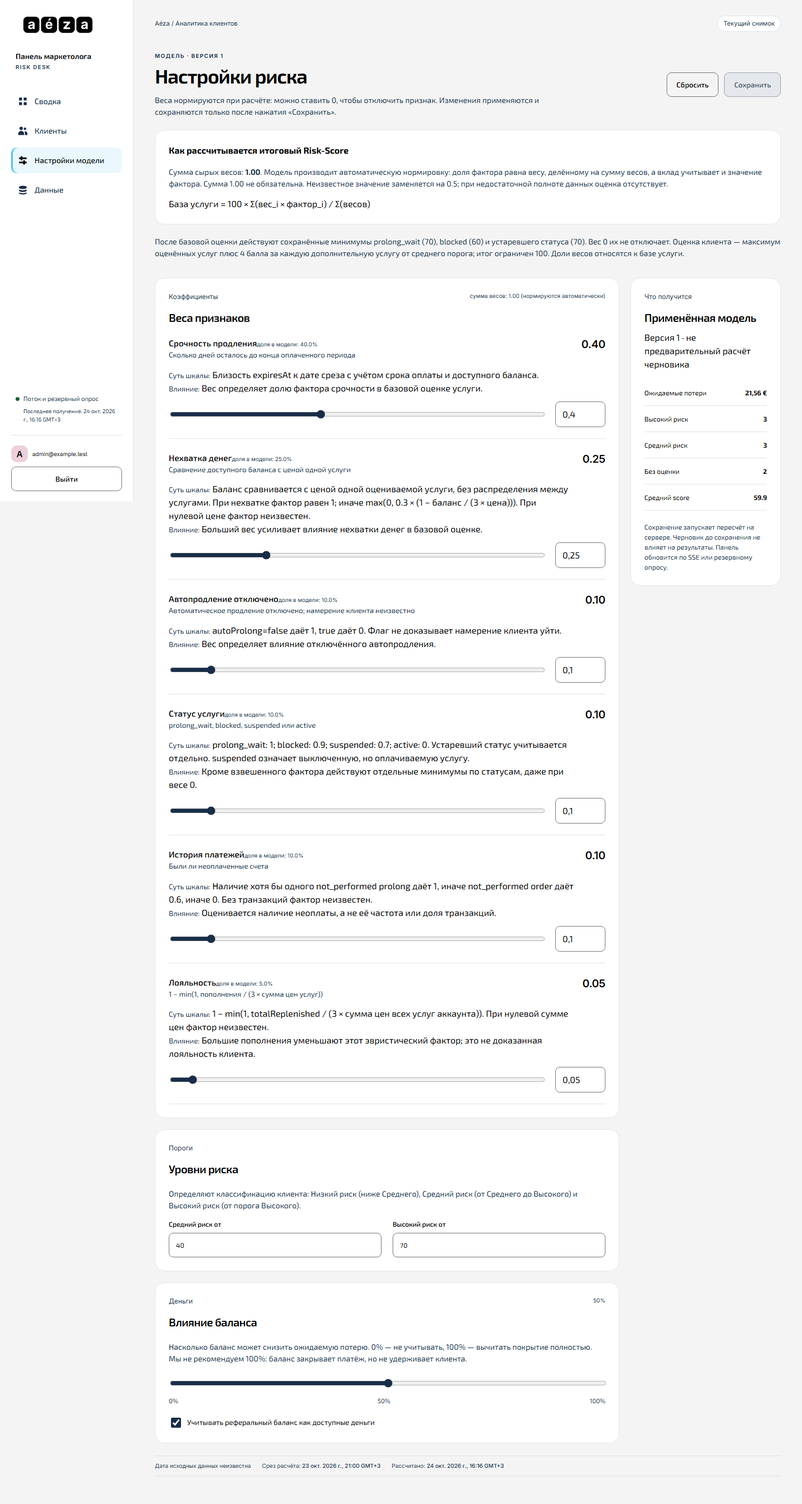
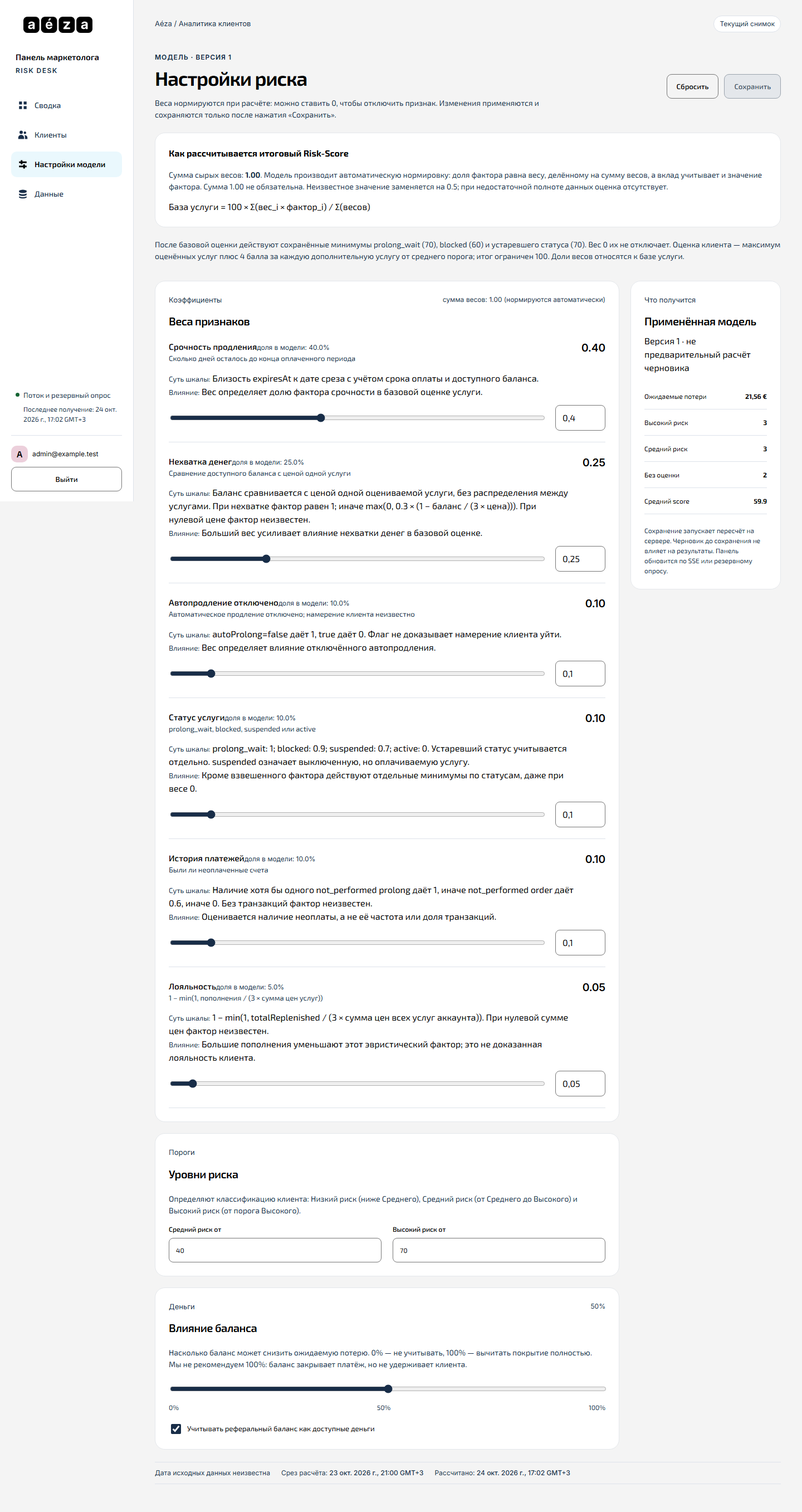
fix(ui): улучшена читаемость шрифтов, центровка Score, удалена лента и смягчен оранжевый цвет

diff --git a/frontend/src/styles.css b/frontend/src/styles.css
@@ -1,8 +1,8 @@
 @font-face{font-family:'Exo 2';src:url('/fonts/Exo2Variable.ttf') format('truetype');font-weight:100 900;font-display:swap}@font-face{font-family:Inter;src:url('/fonts/InterVariable.ttf') format('truetype');font-weight:100 900;font-display:swap}
-:root{--bg:#f4f4f4;--surface:#fff;--text:#000;--muted:#182d48;--accent:#4cc6f1;--accent-soft:#eaf8fd;--high:#b42318;--medium:#e97c35;--low:#166534;--unknown:#182d48;--line:#dde2ea;--control-border:#767676;--radius:18px;--ink:#000;--ink-soft:#182d48;--paper:#fff;--navy:#182d48;--font-sans:'Exo 2',system-ui,sans-serif;--font-display:'Exo 2',system-ui,sans-serif;color:var(--text);background:var(--bg);font-family:var(--font-sans);font-size:16px;line-height:1.5;font-synthesis:none}
-*{box-sizing:border-box}body{margin:0}button,input,select{font:inherit}button,a,input,select{touch-action:manipulation}button{cursor:pointer}button:disabled,input:disabled,fieldset:disabled{cursor:default}button:disabled{background:#e4e7eb;color:#455568;border-color:#9aa3ad}a{color:inherit;text-underline-offset:3px}button:focus-visible,a:focus-visible,input:focus-visible,select:focus-visible,[tabindex]:focus-visible{outline:2px solid #182d48;outline-offset:3px;box-shadow:0 0 0 2px #fff}h1,h2,h3,p{margin-top:0}h1{font-size:2.2rem;line-height:1.18;letter-spacing:-.035em;margin-bottom:12px;font-weight:650;overflow-wrap:anywhere}h2{font-size:1.25rem;line-height:1.35;letter-spacing:-.025em;margin-bottom:10px;font-weight:600}h3{font-size:1rem}small,.muted,.card__meta,.card__hint,.card__label,.page__subtitle{color:var(--muted)}small{font-size:.75rem}.muted{font-size:.875rem}.sr-only{position:absolute;width:1px;height:1px;padding:0;margin:-1px;overflow:hidden;clip:rect(0,0,0,0);white-space:nowrap;border:0}.eyebrow{font-family:Inter,system-ui,sans-serif;font-size:.625rem;letter-spacing:.13em;font-weight:650;color:#182d48;margin-bottom:12px}.app-shell{min-height:100vh}.sidebar{width:240px;position:fixed;inset:0 auto 0 0;background:#fff;border-right:1px solid #dde2ea;display:flex;flex-direction:column;z-index:10;padding:0 20px;overflow-y:auto}.brand-logo{display:flex;padding:30px;align-items:center;justify-content:center;flex-shrink:0;min-height:89px}.brand-logo img{display:block;flex-shrink:0;max-width:none}.sidebar>a{align-self:flex-start;margin-left:-8px;text-decoration:none}.product-label{margin:2px 8px 30px;font-size:.85rem;font-weight:600}.product-label span{display:block;letter-spacing:.15em;font-family:Inter,sans-serif;font-size:.6rem;color:#182d48;margin-top:3px}nav{display:grid;gap:7px}.nav__item{display:flex;gap:12px;align-items:center;min-height:46px;padding:11px 12px;border-radius:10px;text-decoration:none;font-size:.875rem;color:#182d48;font-weight:500}.nav__item:hover{background:#f4f4f4}.nav__item--active{background:#eaf8fd!important;color:#000;box-shadow:inset 3px 0 #4cc6f1}.connection{margin-top:auto;padding:30px 8px 20px;display:flex;align-items:flex-start;gap:7px;font-size:.7rem;color:#182d48}.connection small{display:block;font-size:.625rem;margin-top:6px}.connection-dot{width:7px;height:7px;margin-top:5px;background:#166534;border-radius:50%;flex-shrink:0}.connection-dot--off{background:#b42318}.sidebar__foot{padding:18px 0;border-top:1px solid var(--line);display:flex;gap:8px;align-items:center;flex-wrap:wrap}.avatar{background:#eccfdb;color:#000;width:30px;height:30px;border-radius:10px;display:grid;place-items:center;font-weight:600}.user-email{font-family:Inter,sans-serif;font-size:.625rem;overflow-wrap:anywhere;flex:1}.sidebar__foot button{width:100%}.main{margin-left:240px;padding:28px 38px 50px;max-width:1900px;min-width:0}.workspace-label{display:flex;align-items:center;justify-content:space-between;gap:12px;font-size:.7rem;color:#182d48;margin-bottom:36px;font-family:Inter,system-ui,sans-serif}.workspace-badge{background:#fff;border:1px solid #dde2ea;border-radius:30px;padding:5px 10px;white-space:nowrap}.page{display:grid;gap:22px;min-width:0}.page__header{display:flex;align-items:center;justify-content:space-between;gap:20px}.page__header .eyebrow{margin-bottom:8px}.page__subtitle{font-size:.875rem;margin:0;max-width:720px}.button{display:inline-flex;align-items:center;justify-content:center;gap:8px;min-height:44px;border:1px solid #767676;border-radius:9px;background:white;color:#000;padding:10px 17px;text-decoration:none;font-size:.8125rem;font-weight:550;line-height:1.25;text-align:center}.button:hover:not(:disabled){border-color:#182d48;box-shadow:0 2px 0 #182d48}.button--primary{background:#4cc6f1;border-color:#182d48;color:#000}.button--ghost{background:transparent}.button--wide{width:100%}.card{background:#fff;border:1px solid #e4e7eb;border-radius:18px;padding:24px;min-width:0}.card--hero{background:#4cc6f1;border-color:#4cc6f1}.card__heading{display:flex;align-items:flex-start;justify-content:space-between;gap:16px;margin-bottom:20px}.card__heading h2{margin:0}.card__heading .eyebrow{margin-bottom:7px}.card__meta{font-size:.625rem;font-family:Inter,sans-serif;white-space:nowrap}.card__label{font-size:.75rem;font-family:Inter,sans-serif;margin-bottom:15px}.card__value{display:block;font-size:clamp(1.3rem,2.2vw,2.1rem);font-weight:600;letter-spacing:-.04em;line-height:1.2;font-variant-numeric:tabular-nums}.card__value small{font-size:.875rem;font-weight:400;letter-spacing:0}.card__hint{font-family:Inter,system-ui,sans-serif;font-size:.6875rem;margin:12px 0 0;line-height:1.65}.summary-grid{display:grid;grid-template-columns:repeat(4,minmax(0,1fr));gap:14px}.summary-grid .card{padding:22px}.scope-note{font-family:Inter,system-ui,sans-serif;font-size:.6875rem;color:#182d48;margin:0}.dashboard-grid{display:grid;grid-template-columns:1fr 1.1fr;gap:18px}.calculation-context{display:flex;flex-wrap:wrap;gap:6px 20px;font-family:Inter,system-ui,sans-serif;font-size:.625rem;color:#182d48;border-top:1px solid #dde2ea;border-bottom:1px solid #dde2ea;padding:10px 0}.calculation-context strong{font-weight:500}.risk-stacked{display:flex;height:16px;overflow:hidden;border-radius:6px;border:1px solid #182d48;margin:32px 0 24px;min-width:0}.segment+.segment{border-left:1px solid #182d48}.segment--high{background:#b42318}.segment--medium{background:#e97c35}.segment--low{background:#166534}.segment--unknown{background:#182d48}.distribution-list{display:grid;gap:4px}.distribution-list a{display:grid;grid-template-columns:1fr 50px 40px;align-items:center;gap:10px;padding:9px 0;text-decoration:none;border-bottom:1px solid #f0f1f2;font-family:Inter,sans-serif;font-size:.75rem}.distribution-list a:hover{background:#f4f4f4}.distribution-list strong,.distribution-list a>span:last-child{text-align:right}.distribution-list a>span:last-child{font-size:.625rem;color:#182d48}.badge{display:inline-flex;align-items:center;gap:7px;width:max-content;border-radius:6px;font-family:Inter,sans-serif;font-size:.6875rem;font-weight:500;padding:5px 9px}.badge:before{content:'';width:5px;height:5px;border-radius:50%;background:currentColor}.badge--high{color:#b42318;background:#fee4e2}.badge--medium{color:#000;background:#e97c35}.badge--low{color:#166534;background:#dcfce7}.badge--unknown{color:#182d48;background:#f4f4f4}.ranking{display:grid;gap:7px;margin-top:17px}.ranking-row{display:grid;grid-template-columns:22px minmax(60px,1fr) auto;align-items:center;gap:10px;padding:10px 0;text-decoration:none;min-height:46px}.ranking-row:hover{background:#f4f4f4}.ranking-number{font:500 .625rem Inter,sans-serif;color:#182d48}.ranking-email{display:block;font:500 .6875rem Inter,sans-serif;overflow:hidden;text-overflow:ellipsis;white-space:nowrap;margin-bottom:9px}.ranking-row strong{font-size:.8125rem;font-weight:600;font-variant-numeric:tabular-nums}.ranking-track{display:block;background:#f4f4f4;border-radius:3px;height:5px;overflow:hidden}.ranking-track>span{display:block;height:5px;background:#182d48}.notice{border:1px solid #b0d5e4;background:#eaf8fd;border-radius:12px;padding:17px 20px;font-size:.8125rem;color:#182d48;line-height:1.6}.notice strong{display:block;color:#000;margin-bottom:3px}.filters{display:flex;flex-wrap:wrap;gap:16px;align-items:flex-end}.field{display:grid;gap:7px;font-size:.75rem;min-width:0}.field:first-child{flex:1}.field>span{font-weight:550}.field input,.input,.field select,select{border:1px solid #767676;border-radius:8px;background:#fff;padding:10px 12px;min-height:44px;color:#000;min-width:0}.filters .field:first-child{min-width:180px}.active-filters{flex-basis:100%;display:flex;flex-wrap:wrap;gap:7px}.active-filters:empty{display:none}.chip{border:1px solid #182d48;border-radius:6px;background:#eaf8fd;color:#000;padding:6px 10px;font-size:.75rem;overflow-wrap:anywhere;max-width:100%}.results-meta{display:flex;justify-content:space-between;flex-wrap:wrap;gap:8px;align-items:center;font-size:.8rem}.results-meta>span{font-family:Inter,sans-serif;font-size:.625rem;color:#182d48}.card--table{padding:0;overflow:hidden}.table-wrap{overflow:auto;max-width:100%;border-radius:18px 18px 0 0}.table{width:100%;border-collapse:collapse;white-space:nowrap;font-family:Inter,system-ui,sans-serif;font-size:.75rem}.table caption{white-space:normal}.table th{background:#f9fafb;color:#182d48;font-size:.625rem;font-weight:550;padding:16px;text-align:left;border-bottom:1px solid #dde2ea}.table th button{border:0;background:transparent;color:inherit;font:inherit;padding:8px 0;text-align:left}.table td{padding:18px 16px;border-bottom:1px solid #eef0f3;vertical-align:middle}.table tbody tr:hover{background:#f1faff}.table a{font-weight:500;display:inline-block;max-width:260px;overflow:hidden;text-overflow:ellipsis;vertical-align:middle}.table .num{text-align:right;font-variant-numeric:tabular-nums}.col-id{color:#182d48}.score-value{display:inline-block;min-width:30px;text-align:center;font-weight:600;background:#f4f4f4;border-radius:6px;padding:4px 6px}.score-value--high{background:#fee4e2;color:#b42318}.score-value--medium{background:#e97c35;color:#000}.pagination{padding:18px 22px;display:flex;align-items:center;justify-content:space-between;flex-wrap:wrap;gap:12px;font-size:.75rem}.pagination>div{display:flex;gap:8px}.pagination .button{min-height:36px;padding:8px 12px}.export-note{font-family:Inter,sans-serif;color:#182d48;font-size:.625rem;max-width:900px;margin:0}.error-box{border:1px solid #b42318;background:#fff0ef;color:#791a13;border-radius:10px;padding:15px 18px;display:flex;align-items:center;justify-content:space-between;gap:10px;overflow-wrap:anywhere;font-size:.8125rem}.spinner{display:flex;gap:9px;align-items:center;font-size:.8125rem;color:#182d48}.spinner__dot{display:block;width:9px;height:9px;border-radius:50%;background:#182d48;animation:pulse 1s infinite alternate}@keyframes pulse{to{opacity:.3}}.empty-state{text-align:center;padding:45px 20px;color:#182d48}.empty-state__mark{font-size:2rem}.empty-state p{font-size:.875rem}.boot{min-height:100vh;display:grid;align-content:center;justify-content:center;gap:24px}.back-link{justify-self:start;border:0;background:transparent;padding:8px 0;font-size:.8125rem;color:#182d48;text-decoration:underline}.customer-header{display:flex;justify-content:space-between;align-items:flex-start;gap:24px}.customer-header h1{font-size:1.8rem;overflow-wrap:anywhere}.customer-header__badges{display:flex;gap:8px;flex-wrap:wrap}.meta-pill{background:white;border:1px solid #dde2ea;border-radius:6px;padding:5px 10px;font-size:.6875rem;font-family:Inter,sans-serif}.confidence{background:#fff;border:1px solid #dde2ea;border-radius:12px;padding:15px 20px;white-space:nowrap}.confidence span{display:block;font-size:.6875rem;color:#182d48}.confidence strong{font-size:1.6rem}.customer-hero{background:#fff;border:1px solid #dde2ea;border-radius:18px;padding:28px;display:grid;grid-template-columns:140px 1fr 200px;gap:25px;align-items:center}.score-gauge{position:relative;width:140px;height:140px}.score-gauge svg{width:140px;height:140px;transform:rotate(-90deg)}.score-gauge circle{fill:none;stroke-width:9}.score-gauge__track{stroke:#eef1f4}.score-gauge__fill{stroke:#182d48}.score-gauge__fill--high{stroke:#b42318}.score-gauge__fill--medium{stroke:#e97c35}.score-gauge__fill--low{stroke:#166534}.score-gauge__label{position:absolute;inset:0;display:grid;align-content:center;text-align:center}.score-gauge__label strong{font-size:2.5rem;line-height:1.1}.score-gauge__label span{font-size:.6875rem;color:#182d48}.money-column{display:grid;gap:12px;border-left:1px solid #dde2ea;padding-left:25px}.money-card span{display:block;font-size:.6875rem;color:#182d48}.money-card strong{font-size:1.2rem;font-weight:550}.two-columns{display:grid;grid-template-columns:1fr 1fr;gap:18px}.facts{display:grid;gap:12px;margin:0;font-size:.8125rem}.facts>div{display:flex;justify-content:space-between;gap:15px;border-bottom:1px solid #eef0f3;padding-bottom:12px}.facts dt{color:#182d48}.facts dd{margin:0;text-align:right;font-weight:550}.driver{margin:15px 0}.driver__row{display:flex;gap:10px;justify-content:space-between;font-size:.8125rem}.driver__track{height:5px;background:#f4f4f4;margin-top:7px}.driver__fill{display:block;height:100%;background:#182d48}.drivers~section p{font-size:.75rem;color:#182d48}.drivers~section{margin-top:24px}.drivers~section h3{font-size:.875rem}.service-name,.expiry-cell{display:grid;gap:4px}.service-name span,.expiry-cell small{font-size:.625rem;color:#182d48}.status{font-size:.6875rem;padding:4px 6px;background:#f4f4f4;border-radius:5px}.stale-flag{display:block;font-size:.625rem;color:#b42318}.score-chip{background:#eaf8fd;padding:4px 7px;border-radius:6px}.settings-fields{border:0;padding:0;margin:0;min-width:0;display:grid;gap:20px}.settings-actions{display:flex;gap:10px;flex-wrap:wrap}.settings-layout{display:grid;grid-template-columns:minmax(0,1fr) 270px;gap:20px}.settings-main{display:grid;gap:20px}.settings-aside{min-width:0}.card--sticky{position:sticky;top:24px}.weights{display:grid;gap:22px}.weight-row{border-bottom:1px solid #dde2ea;padding-bottom:20px}.weight-row__head{display:flex;justify-content:space-between;gap:20px}.weight-row__head p,.weight-row__head em{font-size:.8125rem;color:#182d48}.weight-row__head strong{font-weight:550;font-size:.95rem}.weight-row__head span{font-family:Inter,sans-serif;font-size:.625rem;color:#182d48}.weight-row__head>div>div+div{font-size:.75rem;color:#182d48;background:#f4f4f4;padding:12px;border-radius:8px}.weight-row__value{font-weight:600;font-size:1.2rem!important;color:#000!important}.weight-row__controls{display:grid;grid-template-columns:1fr 90px;gap:20px;align-items:center;margin-top:12px}input[type=range]{accent-color:#182d48;width:100%;min-height:36px}.input--number{width:100%;min-width:60px}.thresholds{display:flex;gap:20px;flex-wrap:wrap}.thresholds .field{flex:1;min-width:140px}.range-labels{display:flex;justify-content:space-between;color:#182d48;font-size:.7rem}.checkbox{display:flex;align-items:center;gap:8px;margin-top:18px;font-size:.8125rem}.checkbox input{width:18px;height:18px;accent-color:#182d48}.mini-stat{display:flex;gap:15px;justify-content:space-between;font-size:.75rem;padding:14px 0;border-bottom:1px solid #dde2ea}.settings-aside__note{font-size:.75rem;color:#182d48;margin:20px 0 0}.data-grid{display:grid;grid-template-columns:1fr 1fr;gap:20px}.count-grid{display:grid;grid-template-columns:repeat(3,minmax(0,1fr));gap:12px;margin-bottom:30px}.count-grid strong{display:block;font-size:1.9rem;font-weight:600}.count-grid span{font-family:Inter,sans-serif;font-size:.625rem;color:#182d48}.dropzone{display:flex;align-items:center;flex-direction:column;gap:12px;text-align:center;padding:35px 20px;border:1px dashed #767676;border-radius:12px;background:#eaf8fd}.dropzone input{max-width:100%;font-size:.75rem}.dropzone>span:last-child{font-size:.75rem;color:#182d48}.dropzone__icon{font-size:2rem}.data-grid .muted{margin-top:20px}dialog{border:1px solid #182d48;border-radius:18px;padding:28px;width:min(520px,calc(100vw - 32px));max-height:calc(100vh - 32px);overflow:auto;background:#fff;color:#000;box-shadow:0 20px 80px #182d4840}dialog::backdrop{background:#182d4877}dialog h2{font-size:1.4rem}dialog p{font-size:.875rem}dialog .button{margin:5px 8px 5px 0}.dialog-actions{display:flex;gap:10px;flex-wrap:wrap}.mobile-header{display:none}.login{min-height:100vh;display:grid;grid-template-columns:1fr 1fr}.login__aside{background:#4cc6f1;min-height:100vh;padding:40px 55px;position:relative;display:flex;flex-direction:column;overflow:hidden}.login__aside>.brand-logo{align-self:flex-start;margin-left:-30px}.login__pitch{margin:auto 0;max-width:510px;position:relative;z-index:1;padding:50px 0}.login__pitch h1{font-size:clamp(2.5rem,4vw,4rem);font-weight:650}.login__pitch p:last-child{color:#182d48;font-size:.9375rem;line-height:1.8}.login__footnote{font-family:Inter,sans-serif;font-size:.625rem;color:#182d48}.login__panel{display:grid;place-items:center;padding:40px}.login__card{background:#fff;padding:40px;border-radius:22px;border:1px solid #dde2ea;width:min(440px,100%);display:grid;gap:20px}.login__card h2{font-size:1.8rem;margin:0}.login__card .eyebrow,.login__card p{margin:0}.login__hint{font-size:.625rem;color:#182d48}.login__hint code{font-size:.625rem;overflow-wrap:anywhere}.form-error{font-size:.8125rem;color:#b42318}.brand-pattern{position:absolute;bottom:30px;right:-100px;transform:rotate(-10deg);opacity:.3;width:400px;height:200px;pointer-events:none}.brand-pattern i{display:block;height:2px;background:#182d48;margin:24px 0}.brand-pattern b{display:block;height:80px;border:3px solid #182d48;border-radius:0 0 80px 0;border-top:0;border-left:0;width:80%}
+:root{--bg:#f4f4f4;--surface:#fff;--text:#000;--muted:#182d48;--accent:#4cc6f1;--accent-soft:#eaf8fd;--high:#b42318;--medium:#ba6829;--low:#166534;--unknown:#182d48;--line:#dde2ea;--control-border:#767676;--radius:18px;--ink:#000;--ink-soft:#182d48;--paper:#fff;--navy:#182d48;--font-sans:'Exo 2',system-ui,sans-serif;--font-display:'Exo 2',system-ui,sans-serif;color:var(--text);background:var(--bg);font-family:var(--font-sans);font-size:16px;line-height:1.5;font-synthesis:none}
+*{box-sizing:border-box}body{margin:0}button,input,select{font:inherit}button,a,input,select{touch-action:manipulation}button{cursor:pointer}button:disabled,input:disabled,fieldset:disabled{cursor:default}button:disabled{background:#e4e7eb;color:#455568;border-color:#9aa3ad}a{color:inherit;text-underline-offset:3px}button:focus-visible,a:focus-visible,input:focus-visible,select:focus-visible,[tabindex]:focus-visible{outline:2px solid #182d48;outline-offset:3px;box-shadow:0 0 0 2px #fff}h1,h2,h3,p{margin-top:0}h1{font-size:2.2rem;line-height:1.18;letter-spacing:-.035em;margin-bottom:12px;font-weight:650;overflow-wrap:anywhere}h2{font-size:1.25rem;line-height:1.35;letter-spacing:-.025em;margin-bottom:10px;font-weight:600}h3{font-size:1rem}small,.muted,.card__meta,.card__hint,.card__label,.page__subtitle{color:var(--muted)}small{font-size:.8125rem}.muted{font-size:.875rem}.sr-only{position:absolute;width:1px;height:1px;padding:0;margin:-1px;overflow:hidden;clip:rect(0,0,0,0);white-space:nowrap;border:0}.eyebrow{font-family:Inter,system-ui,sans-serif;font-size:.75rem;letter-spacing:.08em;font-weight:650;color:#182d48;margin-bottom:12px}.app-shell{min-height:100vh}.sidebar{width:240px;position:fixed;inset:0 auto 0 0;background:#fff;border-right:1px solid #dde2ea;display:flex;flex-direction:column;z-index:10;padding:0 20px;overflow-y:auto}.brand-logo{display:flex;padding:30px;align-items:center;justify-content:center;flex-shrink:0;min-height:89px}.brand-logo img{display:block;flex-shrink:0;max-width:none}.sidebar>a{align-self:flex-start;margin-left:-8px;text-decoration:none}.product-label{margin:2px 8px 30px;font-size:.9375rem;font-weight:600}.product-label span{display:block;letter-spacing:.12em;font-family:Inter,sans-serif;font-size:.75rem;color:#182d48;margin-top:4px}nav{display:grid;gap:7px}.nav__item{display:flex;gap:12px;align-items:center;min-height:46px;padding:11px 12px;border-radius:10px;text-decoration:none;font-size:.875rem;color:#182d48;font-weight:500}.nav__item:hover{background:#f4f4f4}.nav__item--active{background:#eaf8fd!important;color:#000;font-weight:600}.connection{margin-top:auto;padding:30px 8px 20px;display:flex;align-items:flex-start;gap:7px;font-size:.8125rem;color:#182d48}.connection small{display:block;font-size:.75rem;margin-top:6px}.connection-dot{width:7px;height:7px;margin-top:5px;background:#166534;border-radius:50%;flex-shrink:0}.connection-dot--off{background:#b42318}.sidebar__foot{padding:18px 0;border-top:1px solid var(--line);display:flex;gap:8px;align-items:center;flex-wrap:wrap}.avatar{background:#eccfdb;color:#000;width:30px;height:30px;border-radius:10px;display:grid;place-items:center;font-weight:600}.user-email{font-family:Inter,sans-serif;font-size:.75rem;overflow-wrap:anywhere;flex:1}.sidebar__foot button{width:100%}.main{margin-left:240px;padding:28px 38px 50px;max-width:1900px;min-width:0}.workspace-label{display:flex;align-items:center;justify-content:space-between;gap:12px;font-size:.8125rem;color:#182d48;margin-bottom:36px;font-family:Inter,system-ui,sans-serif}.workspace-badge{background:#fff;border:1px solid #dde2ea;border-radius:30px;padding:5px 10px;white-space:nowrap;font-size:.75rem}.page{display:grid;gap:22px;min-width:0}.page__header{display:flex;align-items:center;justify-content:space-between;gap:20px}.page__header .eyebrow{margin-bottom:8px}.page__subtitle{font-size:.875rem;margin:0;max-width:720px}.button{display:inline-flex;align-items:center;justify-content:center;gap:8px;min-height:44px;border:1px solid #767676;border-radius:9px;background:white;color:#000;padding:10px 17px;text-decoration:none;font-size:.8125rem;font-weight:550;line-height:1.25;text-align:center}.button:hover:not(:disabled){border-color:#182d48;box-shadow:0 2px 0 #182d48}.button--primary{background:#4cc6f1;border-color:#182d48;color:#000}.button--ghost{background:transparent}.button--wide{width:100%}.card{background:#fff;border:1px solid #e4e7eb;border-radius:18px;padding:24px;min-width:0}.card--hero{background:#4cc6f1;border-color:#4cc6f1}.card__heading{display:flex;align-items:flex-start;justify-content:space-between;gap:16px;margin-bottom:20px}.card__heading h2{margin:0}.card__heading .eyebrow{margin-bottom:7px}.card__meta{font-size:.75rem;font-family:Inter,sans-serif;white-space:nowrap}.card__label{font-size:.8125rem;font-family:Inter,sans-serif;margin-bottom:15px}.card__value{display:block;font-size:clamp(1.3rem,2.2vw,2.1rem);font-weight:600;letter-spacing:-.04em;line-height:1.2;font-variant-numeric:tabular-nums}.card__value small{font-size:.875rem;font-weight:400;letter-spacing:0}.card__hint{font-family:Inter,system-ui,sans-serif;font-size:.75rem;margin:12px 0 0;line-height:1.65}.summary-grid{display:grid;grid-template-columns:repeat(4,minmax(0,1fr));gap:14px}.summary-grid .card{padding:22px}.scope-note{font-family:Inter,system-ui,sans-serif;font-size:.75rem;color:#182d48;margin:0}.dashboard-grid{display:grid;grid-template-columns:1fr 1.1fr;gap:18px}.calculation-context{display:flex;flex-wrap:wrap;gap:6px 20px;font-family:Inter,system-ui,sans-serif;font-size:.75rem;color:#182d48;border-top:1px solid #dde2ea;border-bottom:1px solid #dde2ea;padding:10px 0}.calculation-context strong{font-weight:500}.risk-stacked{display:flex;height:16px;overflow:hidden;border-radius:6px;border:1px solid #182d48;margin:32px 0 24px;min-width:0}.segment+.segment{border-left:1px solid #182d48}.segment--high{background:#b42318}.segment--medium{background:#ba6829}.segment--low{background:#166534}.segment--unknown{background:#182d48}.distribution-list{display:grid;gap:4px}.distribution-list a{display:grid;grid-template-columns:1fr 50px 40px;align-items:center;gap:10px;padding:9px 0;text-decoration:none;border-bottom:1px solid #f0f1f2;font-family:Inter,sans-serif;font-size:.8125rem}.distribution-list a:hover{background:#f4f4f4}.distribution-list strong,.distribution-list a>span:last-child{text-align:right}.distribution-list a>span:last-child{font-size:.75rem;color:#182d48}.badge{display:inline-flex;align-items:center;gap:7px;width:max-content;border-radius:6px;font-family:Inter,sans-serif;font-size:.75rem;font-weight:500;padding:5px 9px}.badge:before{content:'';width:5px;height:5px;border-radius:50%;background:currentColor}.badge--high{color:#b42318;background:#fee4e2}.badge--medium{color:#92400e;background:#fef3c7}.badge--low{color:#166534;background:#dcfce7}.badge--unknown{color:#182d48;background:#f4f4f4}.ranking{display:grid;gap:7px;margin-top:17px}.ranking-row{display:grid;grid-template-columns:22px minmax(60px,1fr) auto;align-items:center;gap:10px;padding:10px 0;text-decoration:none;min-height:46px}.ranking-row:hover{background:#f4f4f4}.ranking-number{font:500 .75rem Inter,sans-serif;color:#182d48}.ranking-email{display:block;font:500 .8125rem Inter,sans-serif;overflow:hidden;text-overflow:ellipsis;white-space:nowrap;margin-bottom:9px}.ranking-row strong{font-size:.8125rem;font-weight:600;font-variant-numeric:tabular-nums}.ranking-track{display:block;background:#f4f4f4;border-radius:3px;height:5px;overflow:hidden}.ranking-track>span{display:block;height:5px;background:#182d48}.notice{border:1px solid #b0d5e4;background:#eaf8fd;border-radius:12px;padding:17px 20px;font-size:.8125rem;color:#182d48;line-height:1.6}.notice strong{display:block;color:#000;margin-bottom:3px}.filters{display:flex;flex-wrap:wrap;gap:16px;align-items:flex-end}.field{display:grid;gap:7px;font-size:.75rem;min-width:0}.field:first-child{flex:1}.field>span{font-weight:550}.field input,.input,.field select,select{border:1px solid #767676;border-radius:8px;background:#fff;padding:10px 12px;min-height:44px;color:#000;min-width:0}.filters .field:first-child{min-width:180px}.active-filters{flex-basis:100%;display:flex;flex-wrap:wrap;gap:7px}.active-filters:empty{display:none}.chip{border:1px solid #182d48;border-radius:6px;background:#eaf8fd;color:#000;padding:6px 10px;font-size:.75rem;overflow-wrap:anywhere;max-width:100%}.results-meta{display:flex;justify-content:space-between;flex-wrap:wrap;gap:8px;align-items:center;font-size:.8125rem}.results-meta>span{font-family:Inter,sans-serif;font-size:.75rem;color:#182d48}.card--table{padding:0;overflow:hidden}.table-wrap{overflow:auto;max-width:100%;border-radius:18px 18px 0 0}.table{width:100%;border-collapse:collapse;white-space:nowrap;font-family:Inter,system-ui,sans-serif;font-size:.8125rem}.table caption{white-space:normal}.table th{background:#f9fafb;color:#182d48;font-size:.75rem;font-weight:550;padding:16px;text-align:left;border-bottom:1px solid #dde2ea}.table th button{border:0;background:transparent;color:inherit;font:inherit;padding:8px 0;text-align:left}.table td{padding:18px 16px;border-bottom:1px solid #eef0f3;vertical-align:middle}.table tbody tr:hover{background:#f1faff}.table a{font-weight:500;display:inline-block;max-width:260px;overflow:hidden;text-overflow:ellipsis;vertical-align:middle}.table .num{text-align:right;font-variant-numeric:tabular-nums}.col-id{color:#182d48}.score-value{display:inline-block;min-width:30px;text-align:center;font-weight:600;background:#f4f4f4;border-radius:6px;padding:4px 6px}.score-value--high{background:#fee4e2;color:#b42318}.score-value--medium{background:#fef3c7;color:#92400e}.pagination{padding:18px 22px;display:flex;align-items:center;justify-content:space-between;flex-wrap:wrap;gap:12px;font-size:.75rem}.pagination>div{display:flex;gap:8px}.pagination .button{min-height:36px;padding:8px 12px}.export-note{font-family:Inter,sans-serif;color:#182d48;font-size:.75rem;max-width:900px;margin:0}.error-box{border:1px solid #b42318;background:#fff0ef;color:#791a13;border-radius:10px;padding:15px 18px;display:flex;align-items:center;justify-content:space-between;gap:10px;overflow-wrap:anywhere;font-size:.8125rem}.spinner{display:flex;gap:9px;align-items:center;font-size:.8125rem;color:#182d48}.spinner__dot{display:block;width:9px;height:9px;border-radius:50%;background:#182d48;animation:pulse 1s infinite alternate}@keyframes pulse{to{opacity:.3}}.empty-state{text-align:center;padding:45px 20px;color:#182d48}.empty-state__mark{font-size:2rem}.empty-state p{font-size:.875rem}.boot{min-height:100vh;display:grid;align-content:center;justify-content:center;gap:24px}.back-link{justify-self:start;border:0;background:transparent;padding:8px 0;font-size:.8125rem;color:#182d48;text-decoration:underline}.customer-header{display:flex;justify-content:space-between;align-items:flex-start;gap:24px}.customer-header h1{font-size:1.8rem;overflow-wrap:anywhere}.customer-header__badges{display:flex;gap:8px;flex-wrap:wrap}.meta-pill{background:white;border:1px solid #dde2ea;border-radius:6px;padding:5px 10px;font-size:.75rem;font-family:Inter,sans-serif}.confidence{background:#fff;border:1px solid #dde2ea;border-radius:12px;padding:15px 20px;white-space:nowrap}.confidence span{display:block;font-size:.75rem;color:#182d48}.confidence strong{font-size:1.6rem}.customer-hero{background:#fff;border:1px solid #dde2ea;border-radius:18px;padding:28px;display:grid;grid-template-columns:140px 1fr 200px;gap:25px;align-items:center}.score-gauge{position:relative;width:140px;height:140px}.score-gauge svg{width:140px;height:140px;transform:rotate(-90deg)}.score-gauge circle{fill:none;stroke-width:9}.score-gauge__track{stroke:#eef1f4}.score-gauge__fill{stroke:#182d48}.score-gauge__fill--high{stroke:#b42318}.score-gauge__fill--medium{stroke:#ba6829}.score-gauge__fill--low{stroke:#166534}.score-gauge__label{position:absolute;inset:0;display:grid;align-content:center;text-align:center}.score-gauge__label strong{font-size:2.5rem;line-height:1.1}.score-gauge__label span{font-size:.75rem;color:#182d48}.money-column{display:grid;gap:12px;border-left:1px solid #dde2ea;padding-left:25px}.money-card span{display:block;font-size:.75rem;color:#182d48}.money-card strong{font-size:1.2rem;font-weight:550}.two-columns{display:grid;grid-template-columns:1fr 1fr;gap:18px}.facts{display:grid;gap:12px;margin:0;font-size:.8125rem}.facts>div{display:flex;justify-content:space-between;gap:15px;border-bottom:1px solid #eef0f3;padding-bottom:12px}.facts dt{color:#182d48}.facts dd{margin:0;text-align:right;font-weight:550}.driver{margin:15px 0}.driver__row{display:flex;gap:10px;justify-content:space-between;font-size:.8125rem}.driver__track{height:5px;background:#f4f4f4;margin-top:7px}.driver__fill{display:block;height:100%;background:#182d48}.drivers~section p{font-size:.75rem;color:#182d48}.drivers~section{margin-top:24px}.drivers~section h3{font-size:.875rem}.service-name,.expiry-cell{display:grid;gap:4px}.service-name span,.expiry-cell small{font-size:.75rem;color:#182d48}.status{font-size:.75rem;padding:4px 6px;background:#f4f4f4;border-radius:5px}.stale-flag{display:block;font-size:.75rem;color:#b42318}.table th.col-center,.table td.col-center{text-align:center}.table th.col-center button{text-align:center;margin:0 auto;display:inline-flex;align-items:center;justify-content:center}.col-center .score-value,.col-center .score-chip{margin:0 auto;display:inline-flex;justify-content:center;align-items:center}.score-chip{background:#eaf8fd;padding:4px 7px;border-radius:6px;font-weight:600}.score-chip--high{background:#fee4e2;color:#b42318}.score-chip--medium{background:#fef3c7;color:#92400e}.score-chip--low{background:#dcfce7;color:#166534}.score-chip--unknown{background:#f4f4f4;color:#182d48}.driver__fill--medium{background:#ba6829}.settings-fields{border:0;padding:0;margin:0;min-width:0;display:grid;gap:20px}.settings-actions{display:flex;gap:10px;flex-wrap:wrap}.settings-layout{display:grid;grid-template-columns:minmax(0,1fr) 270px;gap:20px}.settings-main{display:grid;gap:20px}.settings-aside{min-width:0}.card--sticky{position:sticky;top:24px}.weights{display:grid;gap:22px}.weight-row{border-bottom:1px solid #dde2ea;padding-bottom:20px}.weight-row__head{display:flex;justify-content:space-between;gap:20px}.weight-row__head p,.weight-row__head em{font-size:.8125rem;color:#182d48}.weight-row__head strong{font-weight:550;font-size:.95rem}.weight-row__head span{font-family:Inter,sans-serif;font-size:.75rem;color:#182d48}.weight-row__head>div>div+div{font-size:.75rem;color:#182d48;background:#f4f4f4;padding:12px;border-radius:8px}.weight-row__value{font-weight:600;font-size:1.2rem!important;color:#000!important}.weight-row__controls{display:grid;grid-template-columns:1fr 90px;gap:20px;align-items:center;margin-top:12px}input[type=range]{accent-color:#182d48;width:100%;min-height:36px}.input--number{width:100%;min-width:60px}.thresholds{display:flex;gap:20px;flex-wrap:wrap}.thresholds .field{flex:1;min-width:140px}.range-labels{display:flex;justify-content:space-between;color:#182d48;font-size:.75rem}.checkbox{display:flex;align-items:center;gap:8px;margin-top:18px;font-size:.8125rem}.checkbox input{width:18px;height:18px;accent-color:#182d48}.mini-stat{display:flex;gap:15px;justify-content:space-between;font-size:.75rem;padding:14px 0;border-bottom:1px solid #dde2ea}.settings-aside__note{font-size:.75rem;color:#182d48;margin:20px 0 0}.data-grid{display:grid;grid-template-columns:1fr 1fr;gap:20px}.count-grid{display:grid;grid-template-columns:repeat(3,minmax(0,1fr));gap:12px;margin-bottom:30px}.count-grid strong{display:block;font-size:1.9rem;font-weight:600}.count-grid span{font-family:Inter,sans-serif;font-size:.75rem;color:#182d48}.dropzone{display:flex;align-items:center;flex-direction:column;gap:12px;text-align:center;padding:35px 20px;border:1px dashed #767676;border-radius:12px;background:#eaf8fd}.dropzone input{max-width:100%;font-size:.75rem}.dropzone>span:last-child{font-size:.75rem;color:#182d48}.dropzone__icon{font-size:2rem}.data-grid .muted{margin-top:20px}dialog{border:1px solid #182d48;border-radius:18px;padding:28px;width:min(520px,calc(100vw - 32px));max-height:calc(100vh - 32px);overflow:auto;background:#fff;color:#000;box-shadow:0 20px 80px #182d4840}dialog::backdrop{background:#182d4877}dialog h2{font-size:1.4rem}dialog p{font-size:.875rem}dialog .button{margin:5px 8px 5px 0}.dialog-actions{display:flex;gap:10px;flex-wrap:wrap}.mobile-header{display:none}.login{min-height:100vh;display:grid;grid-template-columns:1fr 1fr}.login__aside{background:#4cc6f1;min-height:100vh;padding:40px 55px;position:relative;display:flex;flex-direction:column;overflow:hidden}.login__aside>.brand-logo{align-self:flex-start;margin-left:-30px}.login__pitch{margin:auto 0;max-width:510px;position:relative;z-index:1;padding:50px 0}.login__pitch h1{font-size:clamp(2.5rem,4vw,4rem);font-weight:650}.login__pitch p:last-child{color:#182d48;font-size:.9375rem;line-height:1.8}.login__footnote{font-family:Inter,sans-serif;font-size:.75rem;color:#182d48}.login__panel{display:grid;place-items:center;padding:40px}.login__card{background:#fff;padding:40px;border-radius:22px;border:1px solid #dde2ea;width:min(440px,100%);display:grid;gap:20px}.login__card h2{font-size:1.8rem;margin:0}.login__card .eyebrow,.login__card p{margin:0}.login__hint{font-size:.75rem;color:#182d48}.login__hint code{font-size:.75rem;overflow-wrap:anywhere}.form-error{font-size:.8125rem;color:#b42318}
 @media(min-width:1700px){.main{padding-left:55px;padding-right:55px}.card__value{font-size:2.5rem}}
 @media(max-width:1190px){.summary-grid{grid-template-columns:repeat(2,minmax(0,1fr))}.dashboard-grid{grid-template-columns:1fr}.settings-layout{grid-template-columns:minmax(0,1fr) 240px}.main{padding:24px}.customer-hero{grid-template-columns:120px 1fr}.money-column{grid-column:1/-1;grid-template-columns:repeat(3,minmax(0,1fr));border:0;padding-left:0;border-top:1px solid #dde2ea;padding-top:20px}.score-gauge,.score-gauge svg{width:120px;height:120px}}
 @media(max-width:899px){.sidebar{display:none}.mobile-header{display:flex;align-items:center;justify-content:space-between;background:#fff;border-bottom:1px solid #dde2ea;gap:8px;padding-right:20px;min-height:84px}.mobile-header>a{text-decoration:none}.mobile-header>.brand-logo{padding:30px}.mobile-header strong{margin-right:auto;font-size:.875rem}.main{margin:0;padding:24px}.workspace-label{margin-bottom:24px}.dashboard-grid,.settings-layout,.data-grid{grid-template-columns:1fr}.card--sticky{position:static}.login__aside{padding:25px;min-height:50vh}.login__pitch{padding:15px 0}.login__pitch h1{font-size:2.5rem}.login__panel{padding:24px}.login{grid-template-columns:1fr}.login__card{padding:28px}.login__aside>.brand-logo{margin-left:0}.two-columns{grid-template-columns:1fr}}
-@media(max-width:560px){.main{padding:20px 16px 40px}.workspace-label{font-size:.5625rem;margin-bottom:28px;flex-wrap:wrap}.page{gap:18px}.page__header{align-items:flex-start;flex-direction:column;gap:16px}h1{font-size:1.9rem}.summary-grid{gap:10px}.summary-grid .card{padding:17px 13px}.card__value{font-size:1.4rem}.card__value small{font-size:.7rem}.card__label{font-size:.625rem}.card__hint{font-size:.625rem}.card{padding:20px}.card--table{padding:0}.card__heading{gap:12px;flex-wrap:wrap}.card__heading h2{font-size:1.1rem}.filters{gap:12px}.filters .field{width:100%;flex:auto}.filters>.button{width:100%}.customer-header{flex-direction:column}.customer-header h1{font-size:1.5rem}.customer-hero{grid-template-columns:1fr;padding:20px}.score-gauge{margin:auto}.money-column{grid-template-columns:1fr}.money-card{display:flex;justify-content:space-between;gap:12px;align-items:center}.money-card strong{font-size:1rem}.confidence{display:flex;align-items:center;gap:15px}.customer-header__badges{gap:6px}.ranking-row{grid-template-columns:18px minmax(60px,1fr) auto;gap:8px}.ranking-row strong{font-size:.75rem}.pagination{padding:16px}.count-grid strong{font-size:1.4rem}.count-grid{gap:10px}.calculation-context{display:grid;font-size:.625rem}.login__aside{min-height:320px;padding:20px}.login__pitch h1{font-size:2rem}.login__pitch p:last-child{font-size:.8125rem}.login__panel{padding:20px 16px}.login__card{padding:25px}.settings-actions{width:100%}.settings-actions .button{flex:1}.thresholds{gap:14px}.notice{padding:15px;font-size:.75rem}.error-box{flex-wrap:wrap}}
+@media(max-width:560px){.main{padding:20px 16px 40px}.workspace-label{font-size:.6875rem;margin-bottom:28px;flex-wrap:wrap}.page{gap:18px}.page__header{align-items:flex-start;flex-direction:column;gap:16px}h1{font-size:1.9rem}.summary-grid{gap:10px}.summary-grid .card{padding:17px 13px}.card__value{font-size:1.4rem}.card__value small{font-size:.7rem}.card__label{font-size:.75rem}.card__hint{font-size:.75rem}.card{padding:20px}.card--table{padding:0}.card__heading{gap:12px;flex-wrap:wrap}.card__heading h2{font-size:1.1rem}.filters{gap:12px}.filters .field{width:100%;flex:auto}.filters>.button{width:100%}.customer-header{flex-direction:column}.customer-header h1{font-size:1.5rem}.customer-hero{grid-template-columns:1fr;padding:20px}.score-gauge{margin:auto}.money-column{grid-template-columns:1fr}.money-card{display:flex;justify-content:space-between;gap:12px;align-items:center}.money-card strong{font-size:1rem}.confidence{display:flex;align-items:center;gap:15px}.customer-header__badges{gap:6px}.ranking-row{grid-template-columns:18px minmax(60px,1fr) auto;gap:8px}.ranking-row strong{font-size:.75rem}.pagination{padding:16px}.count-grid strong{font-size:1.4rem}.count-grid{gap:10px}.calculation-context{display:grid;font-size:.75rem}.login__aside{min-height:320px;padding:20px}.login__pitch h1{font-size:2rem}.login__pitch p:last-child{font-size:.8125rem}.login__panel{padding:20px 16px}.login__card{padding:25px}.settings-actions{width:100%}.settings-actions .button{flex:1}.thresholds{gap:14px}.notice{padding:15px;font-size:.75rem}.error-box{flex-wrap:wrap}}
 @media(prefers-reduced-motion:reduce){*{animation:none!important;scroll-behavior:auto!important}}

diff --git a/frontend/src/components/CustomerTable.tsx b/frontend/src/components/CustomerTable.tsx
@@ -1,3 +1,3 @@
 import{Link}from'react-router-dom';import type{CustomerListItem}from'../types';import type{CustomerQuery}from'../api';import{LevelBadge,money}from'./ui';
 const columns=[['id','ID'],['email','Клиент'],['balance','Баланс, EUR'],['totalReplenished','Пополнения, EUR'],['score','Score'],['expectedLoss','Ожидаемые потери, EUR']] as const;
-export function CustomerTable({items,query,sort,onOpen,owner}:{items:CustomerListItem[];query:CustomerQuery;sort:(s:string)=>void;onOpen:(id:number)=>void;owner:string}){return <table className="table"><caption className="sr-only">Клиенты выбранной группы. Денежные значения в евро.</caption><thead><tr>{columns.map(([key,label])=><th scope="col" key={key} aria-sort={query.sort===key?(query.order==='asc'?'ascending':'descending'):'none'}><button onClick={()=>sort(key)}>{label} {query.sort===key?(query.order==='asc'?'↑':'↓'):'↕'}</button></th>)}<th scope="col">Платежи под риском, EUR</th><th scope="col">Услуг под риском</th><th scope="col">Уровень</th></tr></thead><tbody>{items.map(x=><tr key={x.id}><td className="col-id">{x.id}</td><td><Link id={`customer-${x.id}`} onFocus={()=>onOpen(x.id)} onClick={()=>onOpen(x.id)} to={`/customers/${x.id}`} state={{origin:'customers',owner}}>{x.email}</Link></td><td className="num">{money(x.balance)}</td><td className="num">{money(x.totalReplenished)}</td><td className="num"><span className={'score-value score-value--'+x.level}>{x.score===null?'Нет оценки':Math.round(x.score)}</span></td><td className="num">{money(x.expectedLoss)}</td><td className="num">{money(x.amountAtRisk)}</td><td className="num">{x.servicesAtRisk}</td><td><LevelBadge level={x.level}/></td></tr>)}</tbody></table>;}
+export function CustomerTable({items,query,sort,onOpen,owner}:{items:CustomerListItem[];query:CustomerQuery;sort:(s:string)=>void;onOpen:(id:number)=>void;owner:string}){return <table className="table"><caption className="sr-only">Клиенты выбранной группы. Денежные значения в евро.</caption><thead><tr>{columns.map(([key,label])=><th scope="col" key={key} className={key==='score'?'col-center':undefined} aria-sort={query.sort===key?(query.order==='asc'?'ascending':'descending'):'none'}><button onClick={()=>sort(key)}>{label} {query.sort===key?(query.order==='asc'?'↑':'↓'):'↕'}</button></th>)}<th scope="col">Платежи под риском, EUR</th><th scope="col">Услуг под риском</th><th scope="col">Уровень</th></tr></thead><tbody>{items.map(x=><tr key={x.id}><td className="col-id">{x.id}</td><td><Link id={`customer-${x.id}`} onFocus={()=>onOpen(x.id)} onClick={()=>onOpen(x.id)} to={`/customers/${x.id}`} state={{origin:'customers',owner}}>{x.email}</Link></td><td className="num">{money(x.balance)}</td><td className="num">{money(x.totalReplenished)}</td><td className="col-center"><span className={'score-value score-value--'+x.level}>{x.score===null?'Нет оценки':Math.round(x.score)}</span></td><td className="num">{money(x.expectedLoss)}</td><td className="num">{money(x.amountAtRisk)}</td><td className="num">{x.servicesAtRisk}</td><td><LevelBadge level={x.level}/></td></tr>)}</tbody></table>;}

diff --git a/frontend/src/pages/Login.tsx b/frontend/src/pages/Login.tsx
@@ -25,7 +25,7 @@ export function Login({ onLogin }: { onLogin: (user: User) => void }) {
 
   return (
     <div className="login">
-      <div className="login__aside"><BrandLogo/><div className="login__pitch"><p className="eyebrow">ПАНЕЛЬ МАРКЕТОЛОГА</p><h1>Данные превращаются<br/>в приоритеты.</h1><p>Найдите клиентов, которым нужно внимание.<br/>Разберитесь в причинах риска и денежной оценке.</p></div><div className="brand-pattern" aria-hidden="true"><i/><i/><i/><b/></div><p className="login__footnote">Risk Desk · Aéza</p></div>
+      <div className="login__aside"><BrandLogo/><div className="login__pitch"><p className="eyebrow">ПАНЕЛЬ МАРКЕТОЛОГА</p><h1>Данные превращаются<br/>в приоритеты.</h1><p>Найдите клиентов, которым нужно внимание.<br/>Разберитесь в причинах риска и денежной оценке.</p></div><p className="login__footnote">Risk Desk · Aéza</p></div>
 
       <div className="login__panel">
         <form className="login__card" onSubmit={submit}>

diff --git a/frontend/src/pages/Customer.tsx b/frontend/src/pages/Customer.tsx
@@ -214,7 +214,7 @@ export function Customer({
                         <th scope="col" className="num">Период</th>
                         <th scope="col" className="num">Авто</th>
                         <th scope="col" className="num">Истекает</th>
-                        <th scope="col" className="num">Score</th>
+                        <th scope="col" className="col-center">Score</th>
                       </tr>
                     </thead>
                     <tbody>
@@ -259,7 +259,7 @@ function ServiceRow({ service }: { service: Service }) {
           <small>{expiry}</small>
         </div>
       </td>
-      <td className="num">
+      <td className="col-center">
         <span className={`score-chip score-chip--${service.level}`}>{Math.round(service.score)}</span>
       </td>
     </tr>

diff --git a/frontend/e2e/capture-screens.spec.ts b/frontend/e2e/capture-screens.spec.ts
@@ -2,7 +2,7 @@ import { test, expect } from '@playwright/test';
 import fs from 'fs';
 import path from 'path';
 
-const outDir = path.resolve(__dirname, '..', '..', 'docs', 'screenshots');
+const outDir = path.resolve(process.cwd(), 'docs', 'screenshots');
 
 test.beforeAll(() => {
   if (!fs.existsSync(outDir)) {
